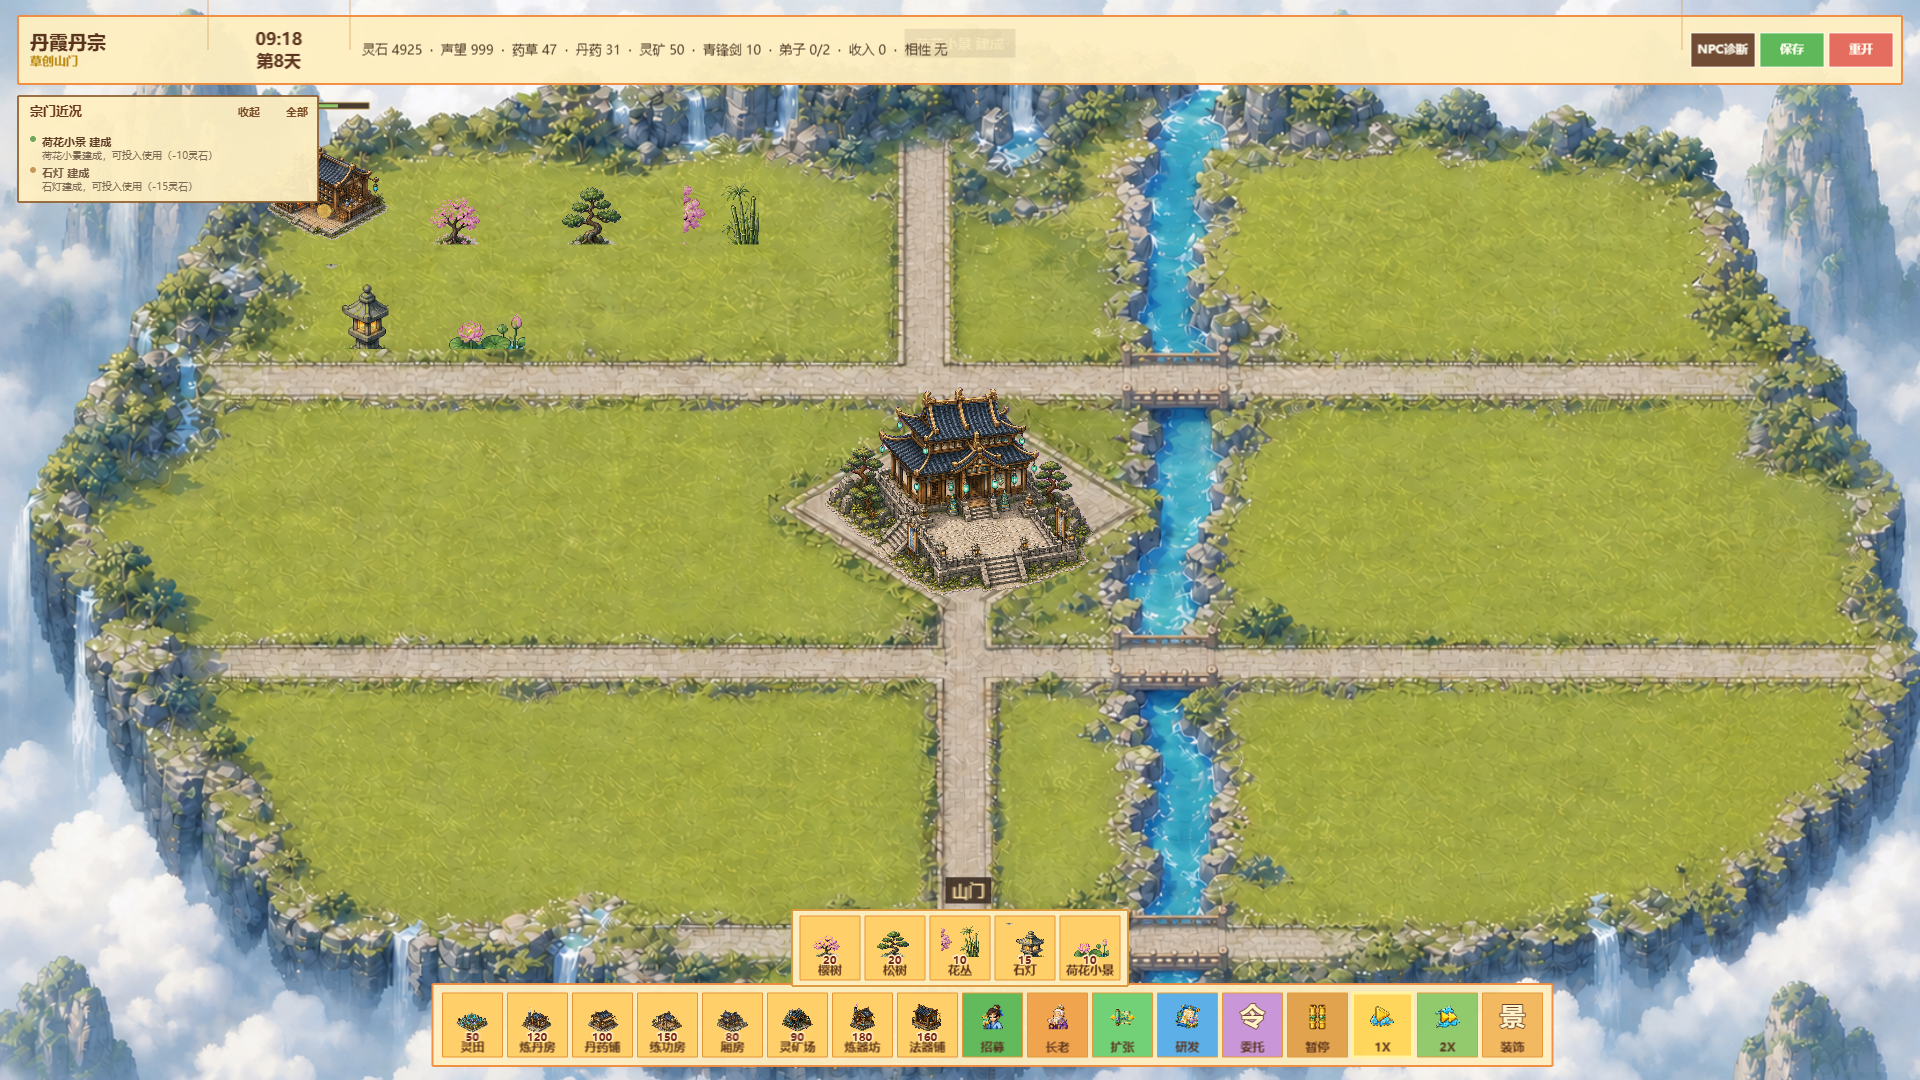
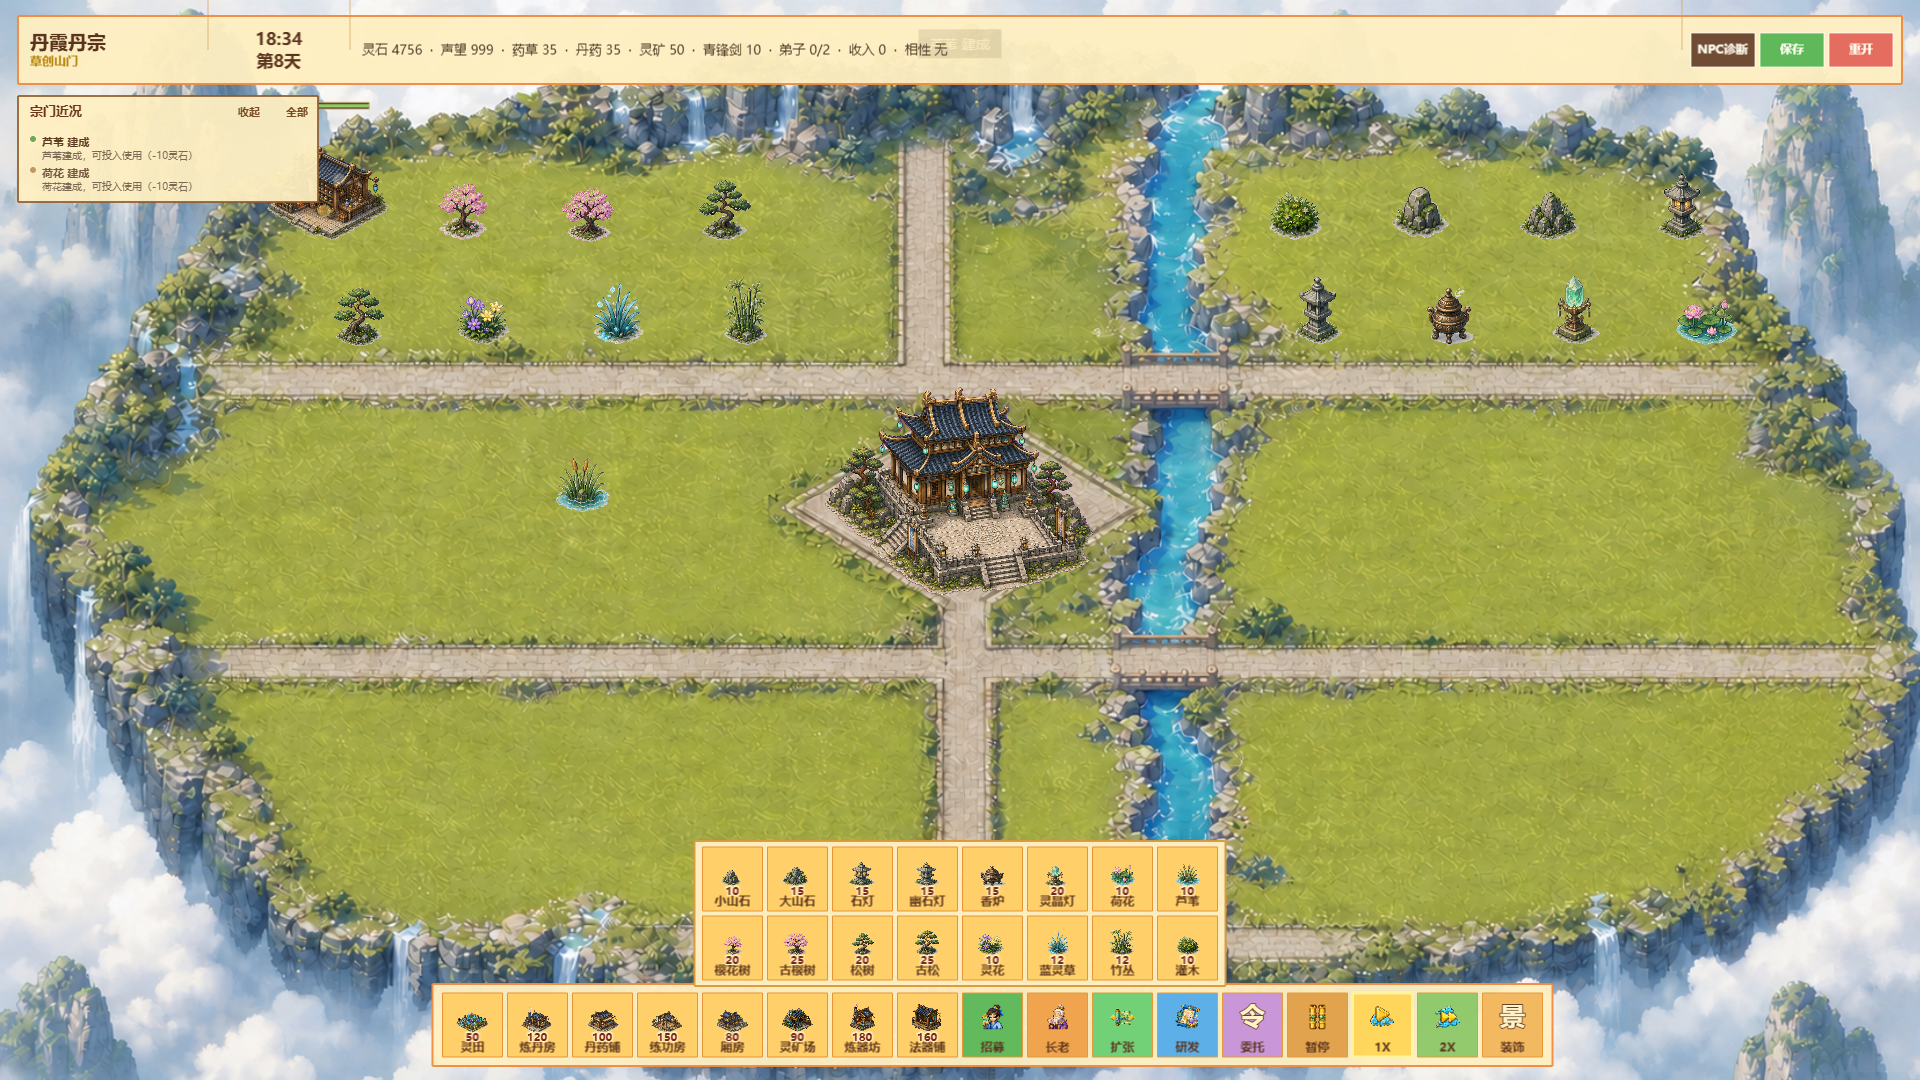
fix: restore approved natural decorations

diff --git a/tests/v0122a-content.spec.ts b/tests/v0122a-content.spec.ts
@@ -1,10 +1,18 @@
 import { expect, test, type Page } from '@playwright/test';
+import { createHash } from 'node:crypto';
 import { readFileSync } from 'node:fs';
 import { resolve } from 'node:path';
 
 const URL = process.env.TEST_URL || 'http://127.0.0.1:4173/';
 const SAVE_KEY = 'lingshan_save_v1';
 const gamedata = JSON.parse(readFileSync(resolve(process.cwd(), 'src', 'data', 'gamedata.json'), 'utf8').replace(/^\uFEFF/, ''));
+const decorManifest = JSON.parse(readFileSync(resolve(process.cwd(), 'public', 'assets', 'v12', 'decor', 'asset-manifest.json'), 'utf8'));
+const decorationIds = [
+  'decor-sakura', 'decor-sakura-large', 'decor-pine', 'decor-pine-large',
+  'decor-flower', 'decor-spirit-blue', 'decor-bamboo', 'decor-bush',
+  'decor-rock-small', 'decor-rock-large', 'decor-lantern', 'decor-lantern-2',
+  'decor-incense', 'decor-crystal-lamp', 'decor-lotus', 'decor-reeds',
+];
 
 test.use({ viewport: { width: 1920, height: 1080 } });
 
@@ -131,6 +139,15 @@ test('schema 8 save migrates to schema 9 with safe defaults and backup', async (
   expect(await page.evaluate(() => !!localStorage.getItem('lingshan_save_backup_pre_v0122a'))).toBe(true);
 });
 
+test('buildable natural decorations match the approved source files', () => {
+  expect(decorManifest.status).toBe('approved-source-copy');
+  expect(decorManifest.assets).toHaveLength(16);
+  for (const asset of decorManifest.assets) {
+    const bytes = readFileSync(resolve(process.cwd(), 'public', 'assets', 'v12', 'decor', asset.file));
+    expect(createHash('sha256').update(bytes).digest('hex')).toBe(asset.sha256);
+  }
+});
+
 test('confirmed research and elder costs are data-driven and forging bonuses apply', async ({ page }) => {
   expect(gamedata.recipes.filter((item: any) => item.unlock === 'research').map((item: any) => item.research.spirit)).toEqual([1500, 4500, 12000]);
   expect(gamedata.researches.map((item: any) => item.cost)).toEqual([2500, 7000, 16000]);
@@ -208,13 +225,13 @@ test('legacy production effects only appear while the three buildings are workin
 });
 
 test('approved quarter-area decorations build, persist, stay out of progression and refund on demolition', async ({ page }) => {
+  test.setTimeout(120_000);
   await continueGame(page, schemaEightSave({ spirit: 5000, buildings: [building(0, 'danfang')] }));
   await clickAction(page, '装饰');
-  const decorationIds = ['decor-sakura', 'decor-pine', 'decor-flower', 'decor-lantern', 'decor-lotus'];
   await expect.poll(async () => {
     const state = await gameState(page);
     return state.uiButtons?.filter((item: any) => decorationIds.includes(item.defId)).length || 0;
-  }).toBe(5);
+  }).toBe(16);
 
   for (const defId of decorationIds) {
     await clickBuildDefinition(page, defId);
@@ -233,14 +250,19 @@ test('approved quarter-area decorations build, persist, stay out of progression 
   await page.waitForTimeout(1200);
 
   let state = await gameState(page);
-  expect(state.spirit).toBe(4925);
-  expect(state.buildingCount).toBe(6);
+  const totalDecorationCost = gamedata.buildings
+    .filter((item: any) => decorationIds.includes(item.id))
+    .reduce((sum: number, item: any) => sum + item.cost, 0);
+  expect(state.spirit).toBe(5000 - totalDecorationCost);
+  expect(state.buildingCount).toBe(17);
   expect(state.progressionBuildingCount).toBe(1);
-  const buildingArea = state.buildingVisuals.find((item: any) => item.id === 'danfang').displayWidth
-    * state.buildingVisuals.find((item: any) => item.id === 'danfang').displayHeight;
+  const buildingVisual = state.buildingVisuals.find((item: any) => item.id === 'danfang');
+  const buildingVisibleArea = buildingVisual.displayWidth * buildingVisual.displayHeight * (85517 / (512 * 512));
   for (const defId of decorationIds) {
     const visual = state.buildingVisuals.find((item: any) => item.id === defId);
-    const areaRatio = visual.displayWidth * visual.displayHeight / buildingArea;
+    const asset = decorManifest.assets.find((item: any) => item.defId === defId);
+    const visibleArea = visual.displayWidth * visual.displayHeight * (asset.alphaPixels / (asset.width * asset.height));
+    const areaRatio = visibleArea / buildingVisibleArea;
     expect(areaRatio).toBeGreaterThanOrEqual(0.24);
     expect(areaRatio).toBeLessThanOrEqual(0.26);
   }
@@ -250,7 +272,7 @@ test('approved quarter-area decorations build, persist, stay out of progression 
   await expect(page.locator('canvas')).toBeVisible();
   await page.waitForTimeout(900);
   await page.locator('canvas').click({ position: { x: 960, y: 886 }, force: true });
-  await expect.poll(async () => (await gameState(page)).buildingCount).toBe(6);
+  await expect.poll(async () => (await gameState(page)).buildingCount).toBe(17);
   state = await gameState(page);
   const lantern = state.buildingVisuals.find((item: any) => item.id === 'decor-lantern');
   await page.locator('canvas').click({ position: { x: lantern.clickX, y: lantern.clickY }, force: true });
@@ -259,7 +281,7 @@ test('approved quarter-area decorations build, persist, stay out of progression 
   state = await gameState(page);
   await page.locator('canvas').click({ position: { x: state.demolishButton.x, y: state.demolishButton.y }, force: true });
   await expect.poll(async () => (await gameState(page)).buildingIds).not.toContain('decor-lantern');
-  expect((await gameState(page)).spirit).toBe(4932);
+  expect((await gameState(page)).spirit).toBe(5000 - totalDecorationCost + 7);
 });
 
 test('decoration palette stays inside mobile landscape viewport', async ({ browser }) => {
@@ -269,7 +291,7 @@ test('decoration palette stays inside mobile landscape viewport', async ({ brows
   await clickAction(page, '装饰');
   const state = await gameState(page);
   const buttons = state.uiButtons.filter((item: any) => item.defId?.startsWith('decor-'));
-  expect(buttons).toHaveLength(5);
+  expect(buttons).toHaveLength(16);
   for (const button of buttons) {
     expect(button.x).toBeGreaterThan(20);
     expect(button.x).toBeLessThan(824);

diff --git a/src/scenes/GameScene.ts b/src/scenes/GameScene.ts
@@ -69,11 +69,22 @@ const BUILDING_RENDER: Record<string, BuildingRenderConfig> = {
   lingkuang: { width: 108, height: 108, offsetX: 0, anchorOffsetY: 40, collisionHalfWidth: 58, collisionHalfHeight: 41, collisionOffsetY: 8 },
   lianqi: { width: 104, height: 104, offsetX: 0, anchorOffsetY: 40, collisionHalfWidth: 53, collisionHalfHeight: 41, collisionOffsetY: 8 },
   faqipu: { width: 94, height: 94, offsetX: 0, anchorOffsetY: 40, collisionHalfWidth: 50, collisionHalfHeight: 38, collisionOffsetY: 8 },
-  'decor-sakura': { width: 50, height: 55, offsetX: 0, anchorOffsetY: 36, collisionHalfWidth: 18, collisionHalfHeight: 15, collisionOffsetY: 4 },
-  'decor-pine': { width: 50, height: 54, offsetX: 3, anchorOffsetY: 36, collisionHalfWidth: 18, collisionHalfHeight: 15, collisionOffsetY: 4 },
-  'decor-flower': { width: 54, height: 50, offsetX: 0, anchorOffsetY: 36, collisionHalfWidth: 20, collisionHalfHeight: 13, collisionOffsetY: 3 },
-  'decor-lantern': { width: 45, height: 61, offsetX: 0, anchorOffsetY: 36, collisionHalfWidth: 12, collisionHalfHeight: 14, collisionOffsetY: 4 },
-  'decor-lotus': { width: 60, height: 45, offsetX: -3, anchorOffsetY: 36, collisionHalfWidth: 20, collisionHalfHeight: 10, collisionOffsetY: 2 },
+  'decor-sakura': { width: 73, height: 73, offsetX: 0, anchorOffsetY: 36, collisionHalfWidth: 18, collisionHalfHeight: 15, collisionOffsetY: 4 },
+  'decor-sakura-large': { width: 57, height: 57, offsetX: 0, anchorOffsetY: 36, collisionHalfWidth: 18, collisionHalfHeight: 15, collisionOffsetY: 4 },
+  'decor-pine': { width: 66, height: 66, offsetX: 2, anchorOffsetY: 36, collisionHalfWidth: 18, collisionHalfHeight: 15, collisionOffsetY: 4 },
+  'decor-pine-large': { width: 56, height: 56, offsetX: 2, anchorOffsetY: 36, collisionHalfWidth: 18, collisionHalfHeight: 15, collisionOffsetY: 4 },
+  'decor-flower': { width: 56, height: 56, offsetX: 0, anchorOffsetY: 36, collisionHalfWidth: 18, collisionHalfHeight: 13, collisionOffsetY: 3 },
+  'decor-spirit-blue': { width: 62, height: 62, offsetX: 0, anchorOffsetY: 36, collisionHalfWidth: 18, collisionHalfHeight: 13, collisionOffsetY: 3 },
+  'decor-bamboo': { width: 47, height: 63, offsetX: 0, anchorOffsetY: 36, collisionHalfWidth: 15, collisionHalfHeight: 13, collisionOffsetY: 3 },
+  'decor-bush': { width: 62, height: 62, offsetX: 0, anchorOffsetY: 36, collisionHalfWidth: 18, collisionHalfHeight: 13, collisionOffsetY: 3 },
+  'decor-rock-small': { width: 78, height: 78, offsetX: 0, anchorOffsetY: 36, collisionHalfWidth: 18, collisionHalfHeight: 13, collisionOffsetY: 3 },
+  'decor-rock-large': { width: 60, height: 60, offsetX: 0, anchorOffsetY: 36, collisionHalfWidth: 19, collisionHalfHeight: 14, collisionOffsetY: 3 },
+  'decor-lantern': { width: 50, height: 67, offsetX: 0, anchorOffsetY: 36, collisionHalfWidth: 12, collisionHalfHeight: 14, collisionOffsetY: 4 },
+  'decor-lantern-2': { width: 51, height: 69, offsetX: 0, anchorOffsetY: 36, collisionHalfWidth: 12, collisionHalfHeight: 14, collisionOffsetY: 4 },
+  'decor-incense': { width: 50, height: 67, offsetX: 0, anchorOffsetY: 36, collisionHalfWidth: 12, collisionHalfHeight: 14, collisionOffsetY: 4 },
+  'decor-crystal-lamp': { width: 59, height: 80, offsetX: 0, anchorOffsetY: 36, collisionHalfWidth: 12, collisionHalfHeight: 14, collisionOffsetY: 4 },
+  'decor-lotus': { width: 68, height: 51, offsetX: -3, anchorOffsetY: 36, collisionHalfWidth: 20, collisionHalfHeight: 10, collisionOffsetY: 2 },
+  'decor-reeds': { width: 61, height: 61, offsetX: 0, anchorOffsetY: 36, collisionHalfWidth: 18, collisionHalfHeight: 11, collisionOffsetY: 2 },
 };
 const VISITOR_NATIVE_RIGHT: Record<VisitorVariant, { front: boolean; back: boolean }> = {
   a: { front: false, back: true },
@@ -2158,22 +2169,29 @@ export class GameScene extends Phaser.Scene {
       '景',
     );
     if (this.decorMenuOpen) {
-      const paletteW = decorDefs.length * buttonW + (decorDefs.length - 1) * gap;
-      const paletteY = firstRowY - buttonH - gap - 8;
-      const palette = this.add.rectangle(0, paletteY, paletteW + 16, buttonH + 12, 0xffefc1, 0.98)
+      const decorColumns = Math.min(8, decorDefs.length);
+      const decorRows = Math.ceil(decorDefs.length / decorColumns);
+      const paletteW = decorColumns * buttonW + (decorColumns - 1) * gap;
+      const paletteH = decorRows * buttonH + (decorRows - 1) * gap;
+      const paletteBottomY = firstRowY - buttonH / 2 - gap - 8;
+      const paletteCenterY = paletteBottomY - paletteH / 2;
+      const palette = this.add.rectangle(0, paletteCenterY, paletteW + 16, paletteH + 12, 0xffefc1, 0.98)
         .setStrokeStyle(2, 0xd8993a, 0.95)
         .setInteractive();
       palette.on('pointerdown', (_p: Phaser.Input.Pointer, _x: number, _y: number, ev: any) => ev.stopPropagation());
       this.buildMenu.add(palette);
       const paletteStartX = -paletteW / 2 + buttonW / 2;
       decorDefs.forEach((def, index) => {
-        const bx = paletteStartX + index * (buttonW + gap);
-        addButton(bx, paletteY, def.name, 0xcde0a1, pointer => {
+        const column = index % decorColumns;
+        const row = Math.floor(index / decorColumns);
+        const bx = paletteStartX + column * (buttonW + gap);
+        const by = paletteBottomY - buttonH / 2 - row * (buttonH + gap);
+        addButton(bx, by, def.name, 0xcde0a1, pointer => {
           this.beginBuildPointer(def.id, pointer);
         }, { key: 'defId', value: def.id });
-        const icon = this.add.image(bx, paletteY - 8, 'building-' + def.id)
+        const icon = this.add.image(bx, by - 8, 'building-' + def.id)
           .setDisplaySize(compact ? 30 : 38, compact ? 27 : 34);
-        const cost = this.add.text(bx, paletteY + buttonH / 2 - 20, String(def.cost), {
+        const cost = this.add.text(bx, by + buttonH / 2 - 20, String(def.cost), {
           fontSize: '11px', color: '#7b241c', fontFamily: FONT, fontStyle: 'bold',
           stroke: '#fff1bd', strokeThickness: 2,
         }).setOrigin(0.5);

diff --git a/src/scenes/BootScene.ts b/src/scenes/BootScene.ts
@@ -58,15 +58,27 @@ export class BootScene extends Phaser.Scene {
     ]) {
       this.load.image('v10-' + id, v10PropPath + id + '.png');
     }
+    const v12DecorPath = 'assets/v12/decor/';
     const buildableDecorations: Record<string, string> = {
-      'decor-sakura': 'prop_tree_sakura_01',
+      'decor-sakura': 'prop_tree_cherry_01',
+      'decor-sakura-large': 'prop_tree_cherry_02',
       'decor-pine': 'prop_tree_pine_01',
-      'decor-flower': 'prop_flower_01',
-      'decor-lantern': 'prop_lantern_01',
-      'decor-lotus': 'prop_lotus_01',
+      'decor-pine-large': 'prop_tree_pine_02',
+      'decor-flower': 'prop_plant_spirit_purple',
+      'decor-spirit-blue': 'prop_plant_spirit_blue',
+      'decor-bamboo': 'prop_plant_bamboo_01',
+      'decor-bush': 'prop_plant_bush_01',
+      'decor-rock-small': 'prop_rock_01',
+      'decor-rock-large': 'prop_rock_02',
+      'decor-lantern': 'prop_lantern_stone_01',
+      'decor-lantern-2': 'prop_lantern_stone_02',
+      'decor-incense': 'prop_incense_burner',
+      'decor-crystal-lamp': 'prop_spirit_crystal_lamp',
+      'decor-lotus': 'prop_water_lotus',
+      'decor-reeds': 'prop_water_reeds',
     };
     for (const [id, source] of Object.entries(buildableDecorations)) {
-      this.load.image('building-' + id, v10PropPath + source + '.png');
+      this.load.image('building-' + id, v12DecorPath + source + '.png');
     }
     for (const stage of ['01', '02', '03']) {
       this.load.image('v10-map-stage-' + stage, 'assets/v10/map/map_stage_' + stage + '_base.png');

diff --git a/deliverables/v0122a-qa/V0122A_APPROVED_NATURAL_DECOR_ACCEPTANCE.md b/deliverables/v0122a-qa/V0122A_APPROVED_NATURAL_DECOR_ACCEPTANCE.md
@@ -1,0 +1,32 @@
+# v0.12.2-A 豆包自然装饰纠正验收明细
+
+## 本次范围
+
+1. 五件误用装饰已替换为历史 `approved-assets` 素材，并新增同批素材至16件。
+2. 装饰主体可见面积约为普通建筑主体的四分之一，不再按透明画布外框计算。
+3. 原五个装饰存档ID保持不变，旧存档可直接继续。
+4. 装饰菜单改为每行八件、共两行，适配844×390手机横屏。
+
+## 用户验收步骤
+
+1. 进入游戏，点击底部“装饰”。
+   - 预期：出现16件装饰，分两行完整显示，没有按钮跑出屏幕。
+2. 重点查看樱花树、松树、小山石、荷花和芦苇。
+   - 预期：素材与豆包自然装饰预览一致，没有旧素材的粗糙抠图；主体面积约为普通建筑的四分之一。
+3. 各建造一件装饰，保存并重新进入。
+   - 预期：装饰位置和种类保持不变。
+4. 选中任一装饰并拆除。
+   - 预期：装饰正常移除，返还一半灵石；不出现升级、派驻或生产选项。
+5. 放大、缩小和拖动地图后再次点击装饰。
+   - 预期：装饰选择位置准确，不影响NPC路线和生产建筑。
+
+## 自动验收结果
+
+- v0.12.2-A内容回归：8/8通过。
+- 核心游戏回归：22/22通过。
+- 覆盖：旧存档、NPC路线、山门避障、建筑选中、地图缩放、满建、炼器链、手机横屏、16件装饰建造/读档/拆除。
+- 当前状态：自动验收通过，等待用户视觉与操作验收，不标记为“已验收”。
+
+## 回滚
+
+- 修改前基线提交：`530672f`。

diff --git a/VERSION_PLANS.md b/VERSION_PLANS.md
@@ -287,6 +287,7 @@ v0.12.2 经营内容补全版（A已完成待用户验收，B待后续确认）
 【A版交付记录·2026-08-18】
 
 - A版确认范围已全部实现；装饰按用户确认的“标准建筑约四分之一外观面积”进入实机。
+- 2026-08-18 装饰素材纠正：弃用误接入的旧 `public/assets/v10/props` 五件素材，改用历史 `approved-assets/props` 中16件豆包透明素材；保留原五个存档ID，并将装饰面板改为两行防止移动端溢出。
 - 存档升级为schema 9，并在首次迁移时保留升级前备份；旧资源、建筑和经营进度不变。
 - `npm.cmd run build`通过；A版专项7/7、既有功能27/27、v0.12运行时22/22，共56/56项自动回归通过。
 - 当前状态仅为“待用户验收”，用户完成逐条验收前不标记为已验收。

diff --git a/rollback/V0122A_APPROVED_NATURAL_PROPS_BASELINE.md b/rollback/V0122A_APPROVED_NATURAL_PROPS_BASELINE.md
@@ -1,0 +1,6 @@
+# v0.12.2-A 自然装饰纠正回滚基线
+
+- 修改前提交：`530672f`
+- 修改前状态：公开试玩版本所使用的五件装饰来自旧 `public/assets/v10/props` 素材。
+- 回滚方式：恢复上述提交中的 `src/scenes/BootScene.ts`、`src/scenes/GameScene.ts`、`src/data/gamedata.json`，并移除新增的 `public/assets/v12/decor`。
+- 玩家存档：本次保留原有五个装饰 ID，旧存档不需要迁移。
